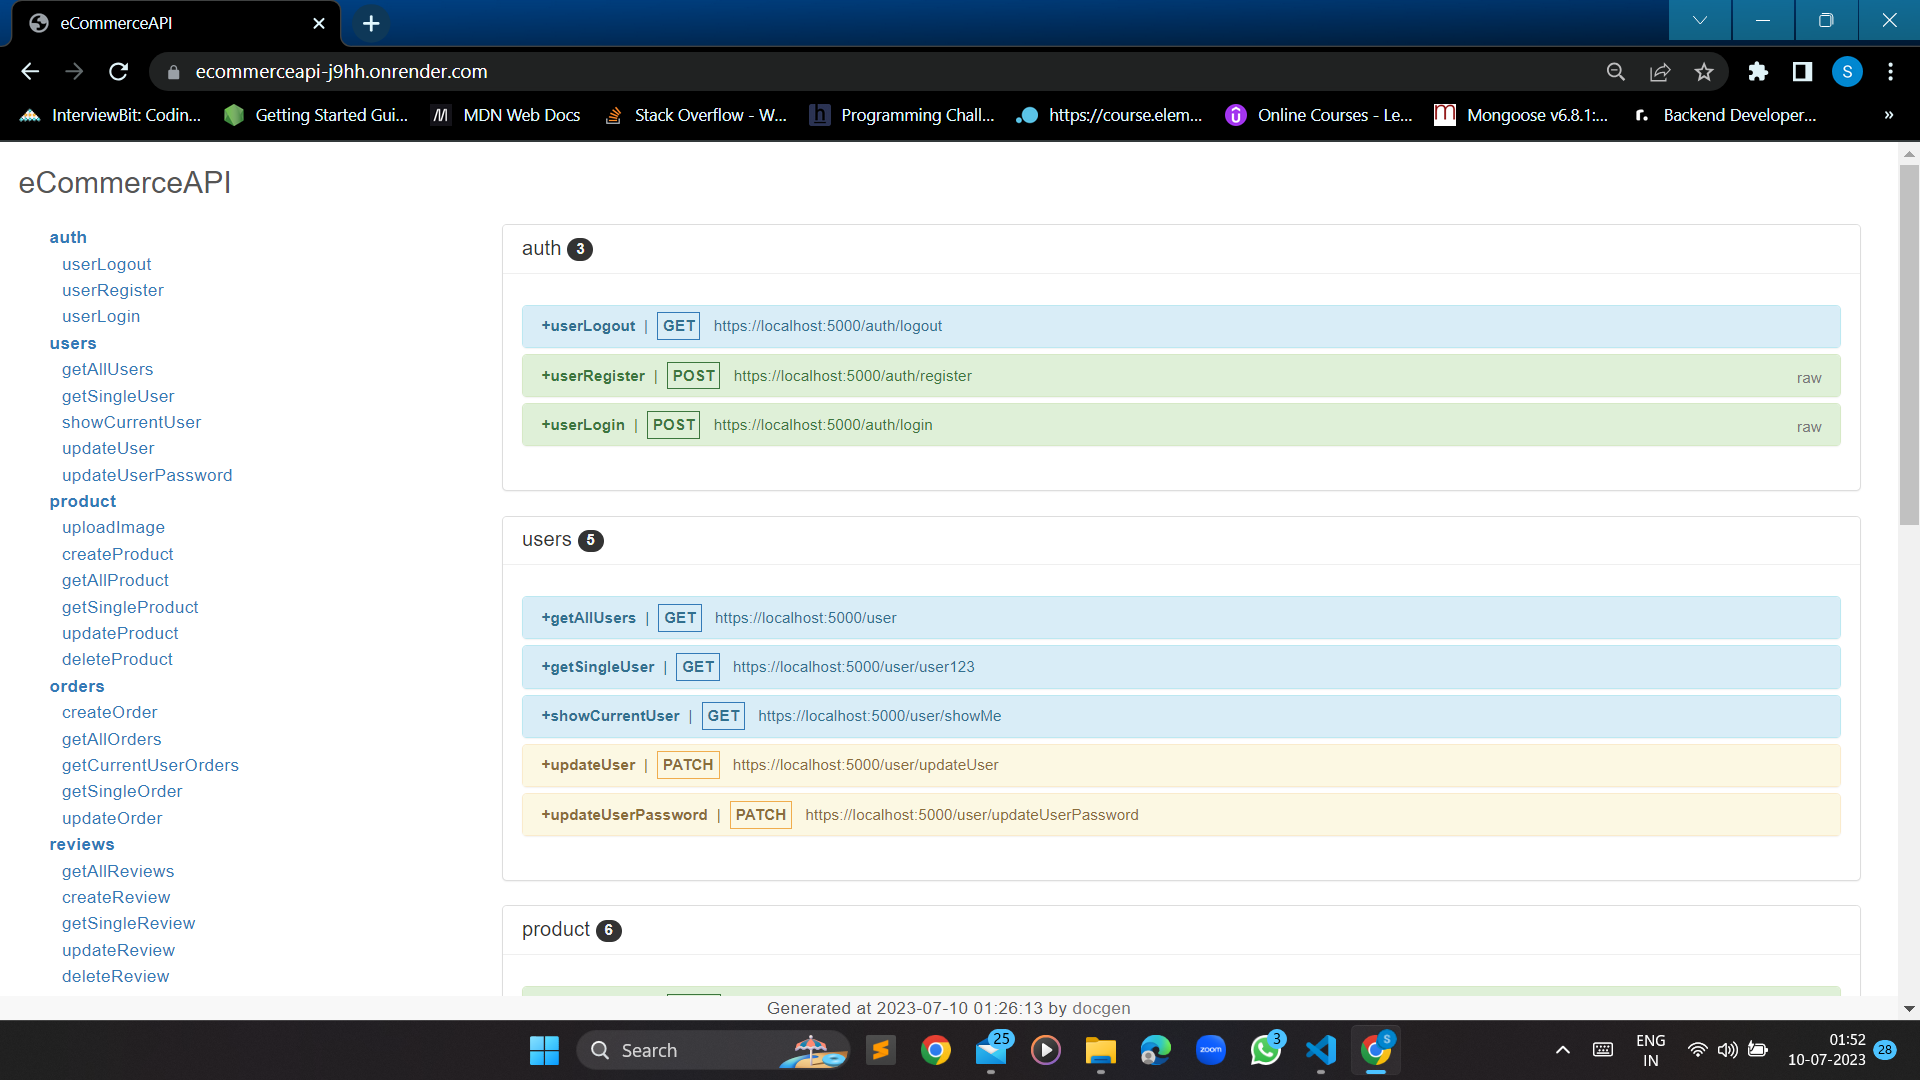
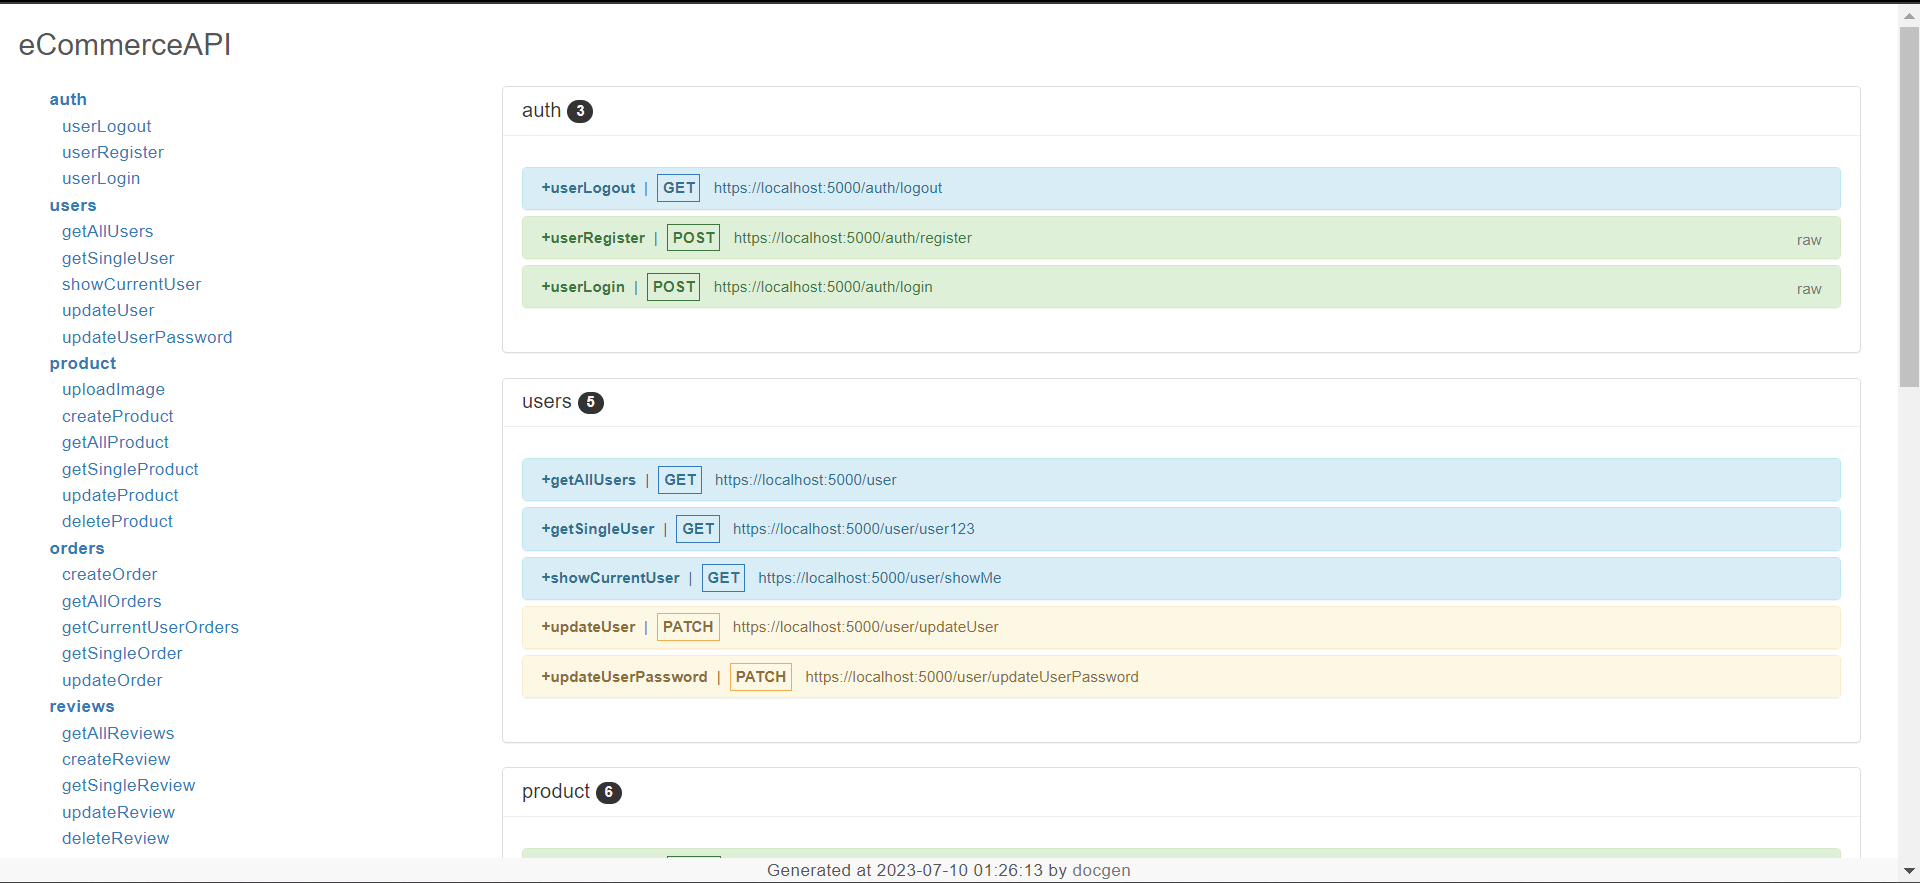
Changed image

diff --git a/README.MD b/README.MD
@@ -9,6 +9,8 @@ Keywords: Node, Express, MongoDB, bcyrpt, cors,
 
 The application's route documentation has been built using DocGen and deployed on Render https://ecommerceapi-j9hh.onrender.com/
 
+![RenderDeployment](./public/upload/e-1.png)
+
 
 ### Localhost Deployment
 
